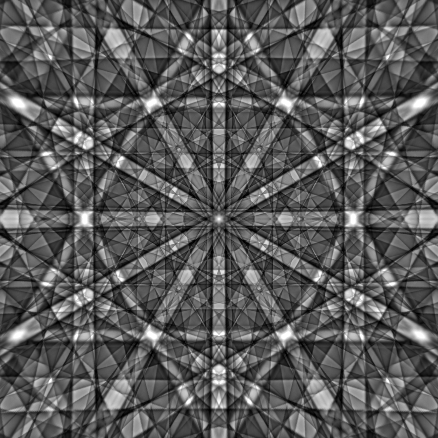
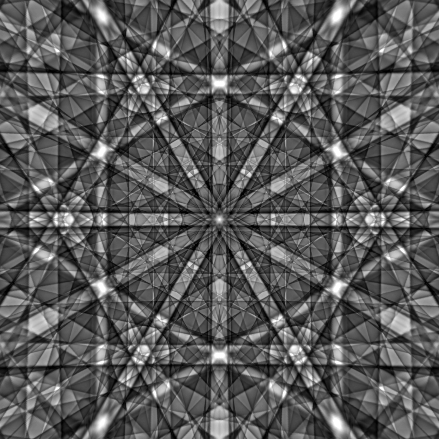
Model and band update
The program now calculates the band width, I will now be working on the program calculating band position.
Photos were updated.

diff --git a/render.js b/render.js
@@ -37,31 +37,58 @@ function init() {
     // generates cube
     scene.add(cube);
 
+  
+}
+
+function bandWidth(h,k,l) {
+  const radius = 0.48;
+  const a = 3.18e-10;
+  const c = 5.166e-10;
+  const n = 1;
+  const beamV = 20;
+  const lamda = 8.5885e-12;
+  let d = a/(Math.sqrt(4/3*((h**2) + h*k + (k**2))+((a**2)/(c**2))*(l**2)))
+  console.log(d)
+  let BraggAngle = Math.asin((n*lamda)/(2*(d)));
+  console.log((BraggAngle*180/Math.PI))
+  let width = 2*radius*Math.sin(BraggAngle/2);
+  console.log(width)
+  return width;
+  
+}
+
+function Bands() {
+
     // defines cylinder geometry, cyl_height defined through Bragg's Law
-    var cyl_height = 0.02262;
-    var cylGeometry = new THREE.CylinderGeometry(0.48, 0.48, cyl_height, 30, 30, true);
+    const radius = 0.48;
     var cylMaterial100 = new THREE.MeshBasicMaterial({color: 0xFF0000, side: THREE.DoubleSide, transparent: true, opacity: 0.3});
     var cylMaterial110 = new THREE.MeshBasicMaterial({color: 0x00c400, side: THREE.DoubleSide, transparent: true, opacity: 0.3});
     var cylMaterial101 = new THREE.MeshBasicMaterial({color: 0x00d6c1, side: THREE.DoubleSide, transparent: true, opacity: 0.3});
     
     // cylinders defined, these are used to highlight Kikuchi band patterns
-    
+
     //cylinders for 100 plane
+    width = bandWidth(1,0,0);
+    var cylGeometry = new THREE.CylinderGeometry(radius, radius, width, 30, 30, true);
     cylinder1001 = new THREE.Mesh(cylGeometry, cylMaterial100);
+    cylinder1001.rotation.z = Math.PI/2;
     cylinder1002 = new THREE.Mesh(cylGeometry, cylMaterial100);
-    cylinder1002.rotation.z = Math.PI/3;
+    cylinder1002.rotation.z = Math.PI/6;
     cylinder1003 = new THREE.Mesh(cylGeometry, cylMaterial100);
-    cylinder1003.rotation.z = Math.PI-(Math.PI/3);
+    cylinder1003.rotation.z = Math.PI-(Math.PI/6);
 
     //cylinders for 110 plane
+    width = bandWidth(1,1,0);
+    var cylGeometry = new THREE.CylinderGeometry(radius, radius, width, 30, 30, true);
     cylinder1101 = new THREE.Mesh(cylGeometry, cylMaterial110);
-    cylinder1101.rotation.z = Math.PI/2;
     cylinder1102 = new THREE.Mesh(cylGeometry, cylMaterial110);
-    cylinder1102.rotation.z = Math.PI/6;
+    cylinder1102.rotation.z = Math.PI/3;
     cylinder1103 = new THREE.Mesh(cylGeometry, cylMaterial110);
-    cylinder1103.rotation.z = Math.PI-(Math.PI/6);
+    cylinder1103.rotation.z = Math.PI-(Math.PI/3);
 
     //clylinders for 101 plane
+    width = bandWidth(1,0,1);
+    var cylGeometry = new THREE.CylinderGeometry(radius, radius, width, 30, 30, true);
     cylinder1011 = new THREE.Mesh(cylGeometry, cylMaterial101);
     cylinder1011.rotation.y = Math.PI/6;
     cylinder1011.rotation.z = Math.PI-(Math.PI/3);
@@ -86,13 +113,6 @@ function init() {
     cylinder1016.rotation.z = Math.PI-(Math.PI/3);
     cylinder1016.rotation.y = Math.PI/2;
     cylinder1016.rotation.x = Math.PI/2;
-
-    
-
-    // generates cylinders
-    //scene.add(cylinder1001,cylinder1002,cylinder1003);
-    //scene.add(cylinder1101,cylinder1102,cylinder1103);
-    //scene.add(cylinder1011,cylinder1012,cylinder1013,cylinder1014,cylinder1015,cylinder1016);
     
     // z-axis position of camera, centre of cube at position 0
     camera.position.z = 0;
@@ -140,3 +160,4 @@ function animate() {
 
 init();
 animate();
+Bands();
